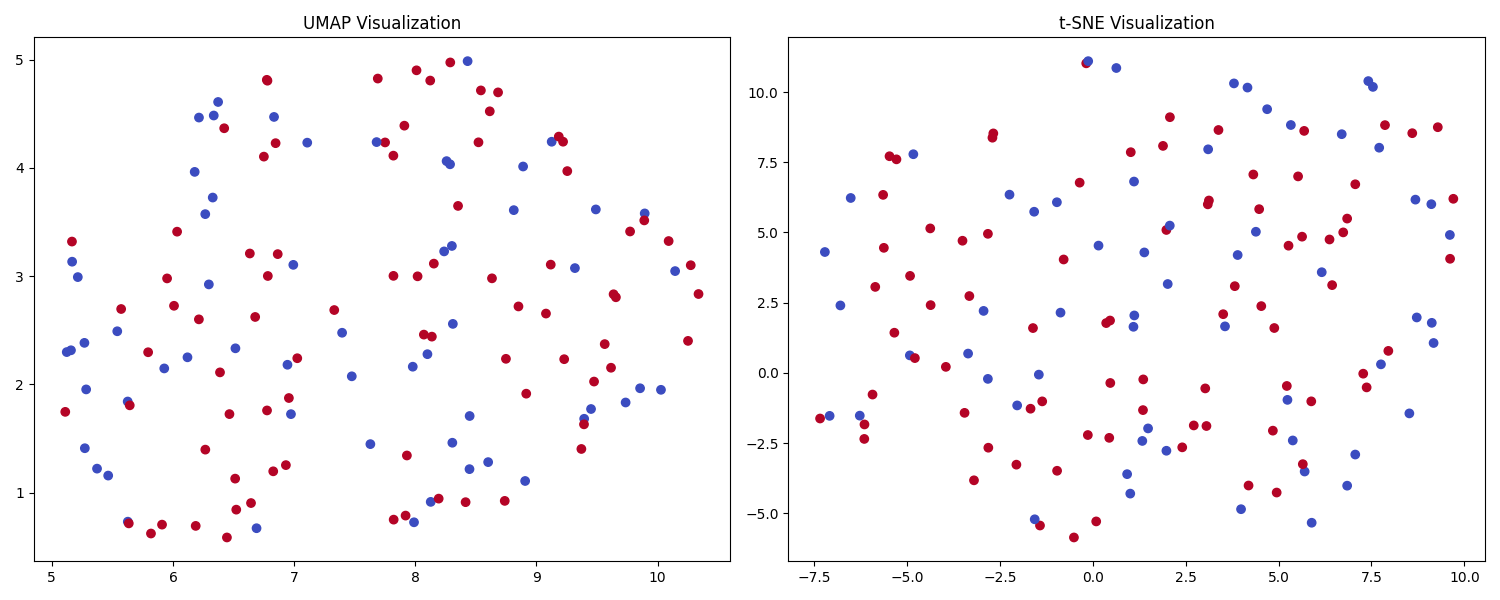
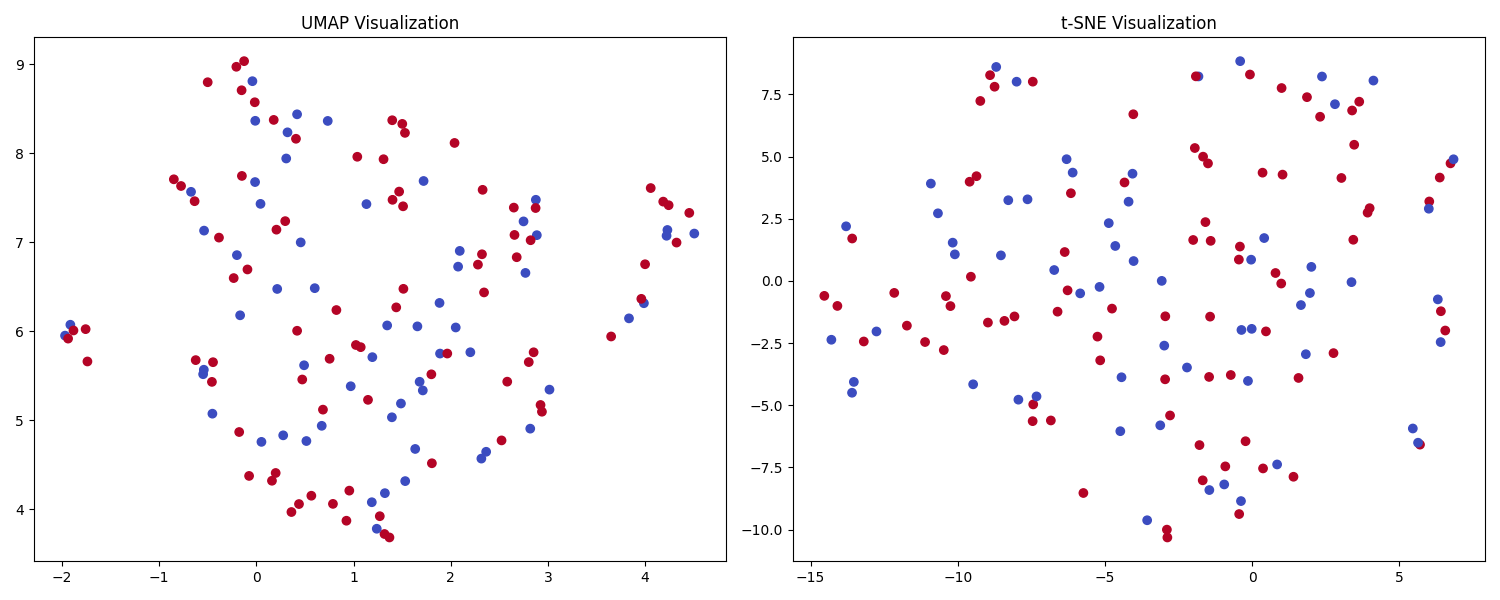
nothing burger change

diff --git a/src/main.py b/src/main.py
@@ -13,7 +13,7 @@ import numpy as np
 def parse_args():
     parser = argparse.ArgumentParser(description='Neural Network Training Parameters')
     parser.add_argument('--epochs', type=int, default=10,
-                      help='number of epochs to train (default: 100)')
+                      help='number of epochs to train (default: 10)')
     parser.add_argument('--lr', type=float, default=0.001,
                       help='learning rate (default: 0.001)')
     parser.add_argument('--batch_size', type=int, default=32,
@@ -72,7 +72,7 @@ def main(flag=False):
 if __name__ == "__main__":
     visualize_flag = False
     if not visualize_flag:
-        main(True)
+        main(False)
 
     # True is training model
     if visualize_flag:
